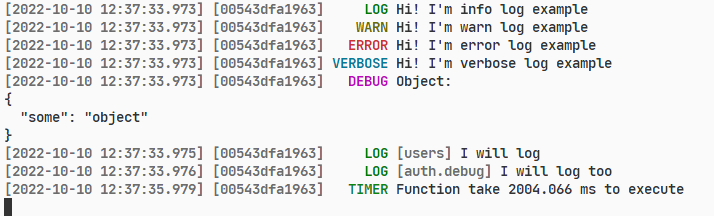
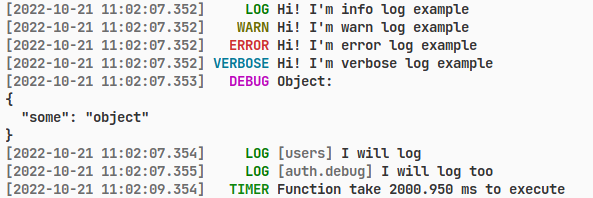
docs: format readme

diff --git a/README.md b/README.md
@@ -4,7 +4,7 @@ Inspired by NestJS Logger, Logardian was built to output minimalistic, readable 
 
 ## Roadmap
 
-- [x] Async hooks
+- [x] OTEL Support
 - [x] NodeJS v16.17.1
 - [ ] Logging to file
 
@@ -114,13 +114,13 @@ Use trace ID from your OTEL
 // your create user logic
 
 logger.log('User has been created')
-// [2022-10-05 11:34:41.621] [7a22fdae427ddd12ace3a129e344121b] log: User has been created
+// [2022-10-05 11:34:41.621] [7a22fdae427ddd12ace3a129e344121b]    LOG: User has been created
 //                                    ^ unique trace id
 
 // your send email for user logic here
 
 logger.log('Email for user was sent')
-// [2022-10-05 11:34:47.317] [7a22fdae427ddd12ace3a129e344121b] log: Mail for user was sent
+// [2022-10-05 11:34:47.317] [7a22fdae427ddd12ace3a129e344121b]    LOG: Mail for user was sent
 //                                    ^ same trace id
 
 const traceId = logger.getTraceId()
